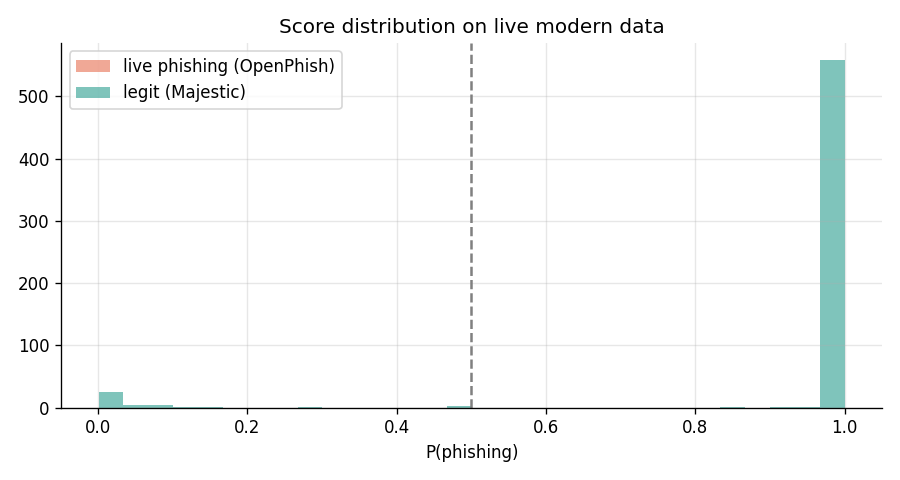
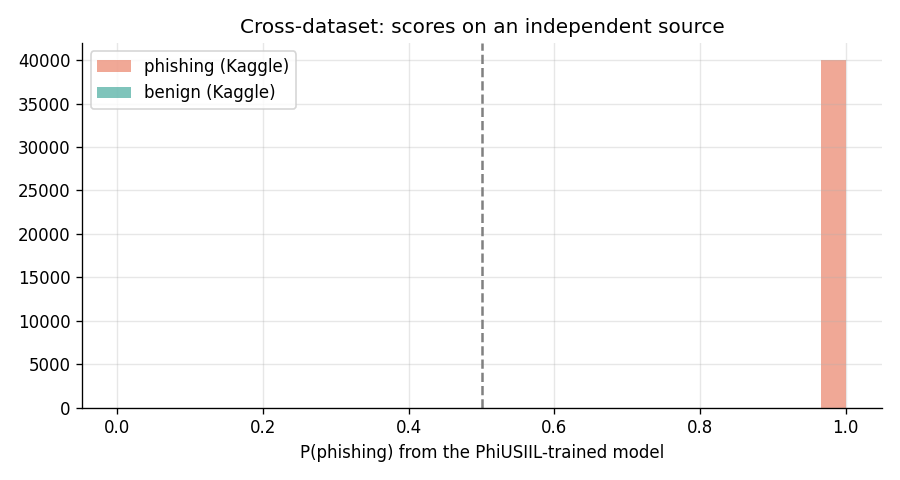
Phases 4-5: cross-dataset collapse + SHAP explainability
Phase 5 (SHAP): the model's #1 driver is is_https (mean|SHAP| 0.205, ~3x the next
feature), then path/structure -- the collection artifacts, made interpretable.

Phase 4 (cross-dataset, independent Kaggle 651k source, phishing vs benign, 80k):
- in-distribution F1 0.997 (AUC 0.999) -> cross-dataset F1 0.666, AUC 0.434 (worse than
  random): the near-perfect score does not transfer, the ranking inverts (PhiUSIIL's
  homepage/deep-link artifact is reversed in Kaggle). Dropping is_https gives AUC 0.166.
- live OpenPhish recall 1.000 (current phishing is still structurally messy -> caught).
- robustness fix: features.extract() now tolerates malformed URLs.
- scripts/fetch_kaggle.py (new Bearer-token API), src/explain.py (SHAP).

diff --git a/run_all.py b/run_all.py
@@ -183,44 +183,71 @@ def phase3(df, F, tr, te):
     fig.savefig(config.FIGURES / "F3_arms_race.png"); plt.close(fig)
 
 
-# --------------------------------------- Phase 4: cross-dataset generalization (live data)
+# --------------------------------- Phase 4: cross-dataset generalization (independent source)
 def phase4(df, F, tr, te):
-    print("Phase 4: does the score survive a different, live dataset?")
+    print("Phase 4: does the score survive a DIFFERENT, mixed-class dataset?")
     feat = features.FEATURE_NAMES
-    mdl = models.model_zoo()["hist_gbm"].fit(X(F, tr, feat), tr["label"].values)
+    feat_db = [c for c in feat if c != "is_https"]
+    ytr = tr["label"].values
+    mdl = models.model_zoo()["hist_gbm"].fit(X(F, tr, feat), ytr)
+    mdl_db = models.model_zoo()["hist_gbm"].fit(X(F, tr, feat_db), ytr)
+    m_id = stats.metrics(te["label"].values, mdl.predict_proba(X(F, te, feat))[:, 1])
 
-    # in-distribution reference
-    p_id = mdl.predict_proba(X(F, te, feat))[:, 1]
-    m_id = stats.metrics(te["label"].values, p_id)
+    # OOD: Kaggle Malicious-URLs (independent source), phishing vs benign, balanced sample
+    k = pd.read_csv(config.DATA_RAW / "malicious_urls" / "malicious_phish.csv")
+    k = k[k["type"].isin(["phishing", "benign"])].copy()
+    k["label"] = (k["type"] == "phishing").astype(int)
+    k = k.groupby("label", group_keys=False).sample(n=40000, random_state=config.SEED)
+    cache = config.DATA_PROC / "kaggle_features.csv"
+    if cache.exists():
+        Fk = pd.read_csv(cache)
+    else:
+        Fk = features.extract_frame(k["url"]); Fk["label"] = k["label"].values
+        Fk.to_csv(cache, index=False)
+    yk = Fk["label"].values
+    p_ood = mdl.predict_proba(Fk[feat])[:, 1]
+    p_ood_db = mdl_db.predict_proba(Fk[feat_db])[:, 1]
+    m_ood, m_ood_db = stats.metrics(yk, p_ood), stats.metrics(yk, p_ood_db)
+    best_t, _ = stats.cost_optimal_threshold(yk, p_ood, 1, 1)
+    m_ood_rt = stats.metrics(yk, p_ood, best_t)
 
-    # out-of-distribution: live OpenPhish phishing + Majestic legit (different collection)
+    # live modern phishing (OpenPhish), recall only
     oph = pd.read_csv(config.DATA_RAW / "openphish.csv")
-    maj = pd.read_csv(config.DATA_RAW / "majestic_top.csv").sample(2 * len(oph), random_state=config.SEED)
-    ood = pd.concat([oph, maj], ignore_index=True)
-    Food = features.extract_frame(ood["URL"])[feat]
-    p_ood = mdl.predict_proba(Food)[:, 1]
-    y_ood = ood["label"].values
-    m_ood = stats.metrics(y_ood, p_ood)
-    rec_openphish = float((p_ood[y_ood == 1] >= 0.5).mean())
-
-    # diagnosis: is it ranking (AUC) or just the threshold?
-    best_t, _ = stats.cost_optimal_threshold(y_ood, p_ood, 1, 1)
-    m_ood_rethr = stats.metrics(y_ood, p_ood, best_t)
+    rec_oph = float((mdl.predict_proba(features.extract_frame(oph["URL"])[feat])[:, 1] >= .5).mean())
 
     T4 = pd.DataFrame([
-        ["in-distribution (PhiUSIIL test)", round(m_id["f1"], 3), round(m_id["recall"], 3), round(m_id["auc"], 3), 0.5],
-        ["out-of-distribution (OpenPhish+Majestic)", round(m_ood["f1"], 3), round(rec_openphish, 3), round(m_ood["auc"], 3), 0.5],
-        ["  same, re-thresholded", round(m_ood_rethr["f1"], 3), round(m_ood_rethr["recall"], 3), round(m_ood["auc"], 3), round(best_t, 2)],
-    ], columns=["setting", "f1", "recall_phishing", "auc", "threshold"])
+        ["in-distribution (PhiUSIIL test)", m_id["f1"], m_id["recall"], m_id["auc"], 0.5],
+        ["cross-dataset (Kaggle, full model)", m_ood["f1"], m_ood["recall"], m_ood["auc"], 0.5],
+        ["cross-dataset (Kaggle, no is_https)", m_ood_db["f1"], m_ood_db["recall"], m_ood_db["auc"], 0.5],
+        ["cross-dataset (Kaggle, re-thresholded)", m_ood_rt["f1"], m_ood_rt["recall"], m_ood["auc"], round(best_t, 2)],
+        ["live OpenPhish (recall only)", float("nan"), rec_oph, float("nan"), 0.5],
+    ], columns=["setting", "f1", "recall_phishing", "auc", "threshold"]).round(3)
     T4.to_csv(config.TABLES / "T4_cross_dataset.csv", index=False)
-    print(f"  recall on live OpenPhish phishing: {rec_openphish:.3f}  (in-dist recall {m_id['recall']:.3f})")
+    print(f"  in-dist F1 {m_id['f1']:.3f} -> cross-dataset F1 {m_ood['f1']:.3f} (AUC {m_ood['auc']:.3f}); live OpenPhish recall {rec_oph:.3f}")
     print(T4.to_string(index=False))
 
     fig, ax = plt.subplots(figsize=(7.5, 4))
-    ax.hist(p_ood[y_ood == 1], bins=30, alpha=.6, color=RED, label="live phishing (OpenPhish)")
-    ax.hist(p_ood[y_ood == 0], bins=30, alpha=.6, color=GREEN, label="legit (Majestic)")
-    ax.axvline(0.5, ls="--", color="grey"); ax.set_xlabel("P(phishing)"); ax.set_title("Score distribution on live modern data")
-    ax.legend(); fig.tight_layout(); fig.savefig(config.FIGURES / "F4_cross_dataset.png"); plt.close(fig)
+    ax.hist(p_ood[yk == 1], bins=30, alpha=.6, color=RED, label="phishing (Kaggle)")
+    ax.hist(p_ood[yk == 0], bins=30, alpha=.6, color=GREEN, label="benign (Kaggle)")
+    ax.axvline(0.5, ls="--", color="grey"); ax.set_xlabel("P(phishing) from the PhiUSIIL-trained model")
+    ax.set_title("Cross-dataset: scores on an independent source"); ax.legend()
+    fig.tight_layout(); fig.savefig(config.FIGURES / "F4_cross_dataset.png"); plt.close(fig)
+
+
+# ------------------------------------------------- Phase 5: explainability (SHAP)
+def phase5(df, F, tr, te):
+    print("Phase 5: what is the model actually using? (SHAP)")
+    from src import explain
+    feat = features.FEATURE_NAMES
+    rf = models.model_zoo()["random_forest"].fit(X(F, tr, feat), tr["label"].values)
+    imp, _, _ = explain.shap_importance(rf, X(F, te, feat), max_n=2000)
+    imp.head(15).to_frame("mean_abs_shap").to_csv(config.TABLES / "T5_shap_importance.csv")
+    print("  top drivers:", list(imp.head(6).index))
+
+    fig, ax = plt.subplots(figsize=(7, 5))
+    imp.head(15)[::-1].plot.barh(ax=ax, color=INK)
+    ax.set_title("SHAP global importance (honest URL features)"); ax.set_xlabel("mean |SHAP|")
+    fig.tight_layout(); fig.savefig(config.FIGURES / "F5_shap.png"); plt.close(fig)
 
 
 if __name__ == "__main__":
@@ -229,4 +256,5 @@ if __name__ == "__main__":
     phase1(df, F, provided, tr, va, te)
     phase3(df, F, tr, te)
     phase4(df, F, tr, te)
+    phase5(df, F, tr, te)
     print(f"done in {time.time()-t0:.0f}s")

diff --git a/src/features.py b/src/features.py
@@ -75,9 +75,13 @@ def _brand_min_distance(host: str) -> int:
 def extract(url: str) -> dict:
     """Extract all URL string features. Returns a flat dict of numbers."""
     url = str(url).strip()
-    parsed = urlparse(url if "//" in url else "http://" + url)
-    host = (parsed.hostname or "").lower()
-    path, query = parsed.path or "", parsed.query or ""
+    try:                                    # some corpora contain malformed URLs
+        parsed = urlparse(url if "//" in url else "http://" + url)
+        host = (parsed.hostname or "").lower()
+        path, query = parsed.path or "", parsed.query or ""
+        scheme, port = parsed.scheme, parsed.port
+    except ValueError:
+        host, path, query, scheme, port = "", "", "", "", None
     labels = [l for l in host.split(".") if l]
     tld = labels[-1] if labels else ""
     core = labels[-2] if len(labels) >= 2 else ""
@@ -106,7 +110,7 @@ def extract(url: str) -> dict:
         "n_subdomain": max(0, len(labels) - 2),
         "host_hyphen": host.count("-"),
         "is_ip": int(bool(_IP_RE.match(host)) or bool(_HEX_IP_RE.match(host))),
-        "has_port": int(parsed.port is not None),
+        "has_port": int(port is not None),
         "core_len": len(core),
         # --- TLD ---
         "tld_len": len(tld),
@@ -121,7 +125,7 @@ def extract(url: str) -> dict:
         "host_entropy": _entropy(host),
         "core_entropy": _entropy(core),
         # --- scheme / encoding tricks ---
-        "is_https": int(parsed.scheme == "https"),
+        "is_https": int(scheme == "https"),
         "has_punycode": int("xn--" in host),
         "has_at_symbol": int("@" in url),
         "has_hex_encoding": int(bool(re.search(r"%[0-9a-fA-F]{2}", url))),

diff --git a/scripts/fetch_kaggle.py b/scripts/fetch_kaggle.py
@@ -1,0 +1,22 @@
+"""Fetch the Kaggle 'Malicious URLs Dataset' (sid321axn) for the cross-dataset test.
+
+651,191 URLs, classes benign/defacement/phishing/malware. Siddhartha, M. (2021), Kaggle.
+An independent, mixed-class source (different from PhiUSIIL) -> a confound-free
+generalization test. Uses the new Kaggle Bearer token at ~/.kaggle/access_token.
+"""
+import os, ssl, urllib.request, zipfile
+
+OUT = "data/raw/malicious_urls"
+os.makedirs(OUT, exist_ok=True)
+tok = open(os.path.expanduser("~/.kaggle/access_token")).read().strip()
+ctx = ssl.create_default_context(); ctx.check_hostname = False; ctx.verify_mode = ssl.CERT_NONE
+url = "https://www.kaggle.com/api/v1/datasets/download/sid321axn/malicious-urls-dataset"
+req = urllib.request.Request(url, headers={"Authorization": f"Bearer {tok}",
+                                           "User-Agent": "Mozilla/5.0"})
+data = urllib.request.urlopen(req, context=ctx, timeout=180).read()
+zp = os.path.join(OUT, "_mal.zip")
+open(zp, "wb").write(data)
+with zipfile.ZipFile(zp) as z:
+    z.extractall(OUT)
+os.remove(zp)
+print(f"saved {OUT}/malicious_phish.csv ({len(data)/1e6:.1f} MB)")

diff --git a/src/explain.py b/src/explain.py
@@ -1,0 +1,24 @@
+"""Explainability for the URL detector.
+
+Tree models are not linear, so (unlike the partner's logistic text model) exact
+coefficient attribution isn't available -- we use SHAP (Lundberg & Lee, 2017) to get
+faithful per-feature contributions, plus permutation importance as a cross-check.
+The point of interest: SHAP shows the model leans on the collection-artifact features
+(is_https, structural size), which is the interpretability side of the artifact story.
+"""
+from __future__ import annotations
+import numpy as np
+import pandas as pd
+
+
+def shap_importance(model, X, max_n=2000, seed=42):
+    """Mean |SHAP value| per feature (global importance) on a sample."""
+    import shap
+    Xs = X.sample(min(len(X), max_n), random_state=seed)
+    sv = shap.TreeExplainer(model).shap_values(Xs)
+    if isinstance(sv, list):            # [class0, class1]
+        sv = sv[1]
+    elif getattr(sv, "ndim", 2) == 3:   # (n, f, 2)
+        sv = sv[:, :, 1]
+    imp = pd.Series(np.abs(sv).mean(axis=0), index=X.columns).sort_values(ascending=False)
+    return imp, Xs, sv
